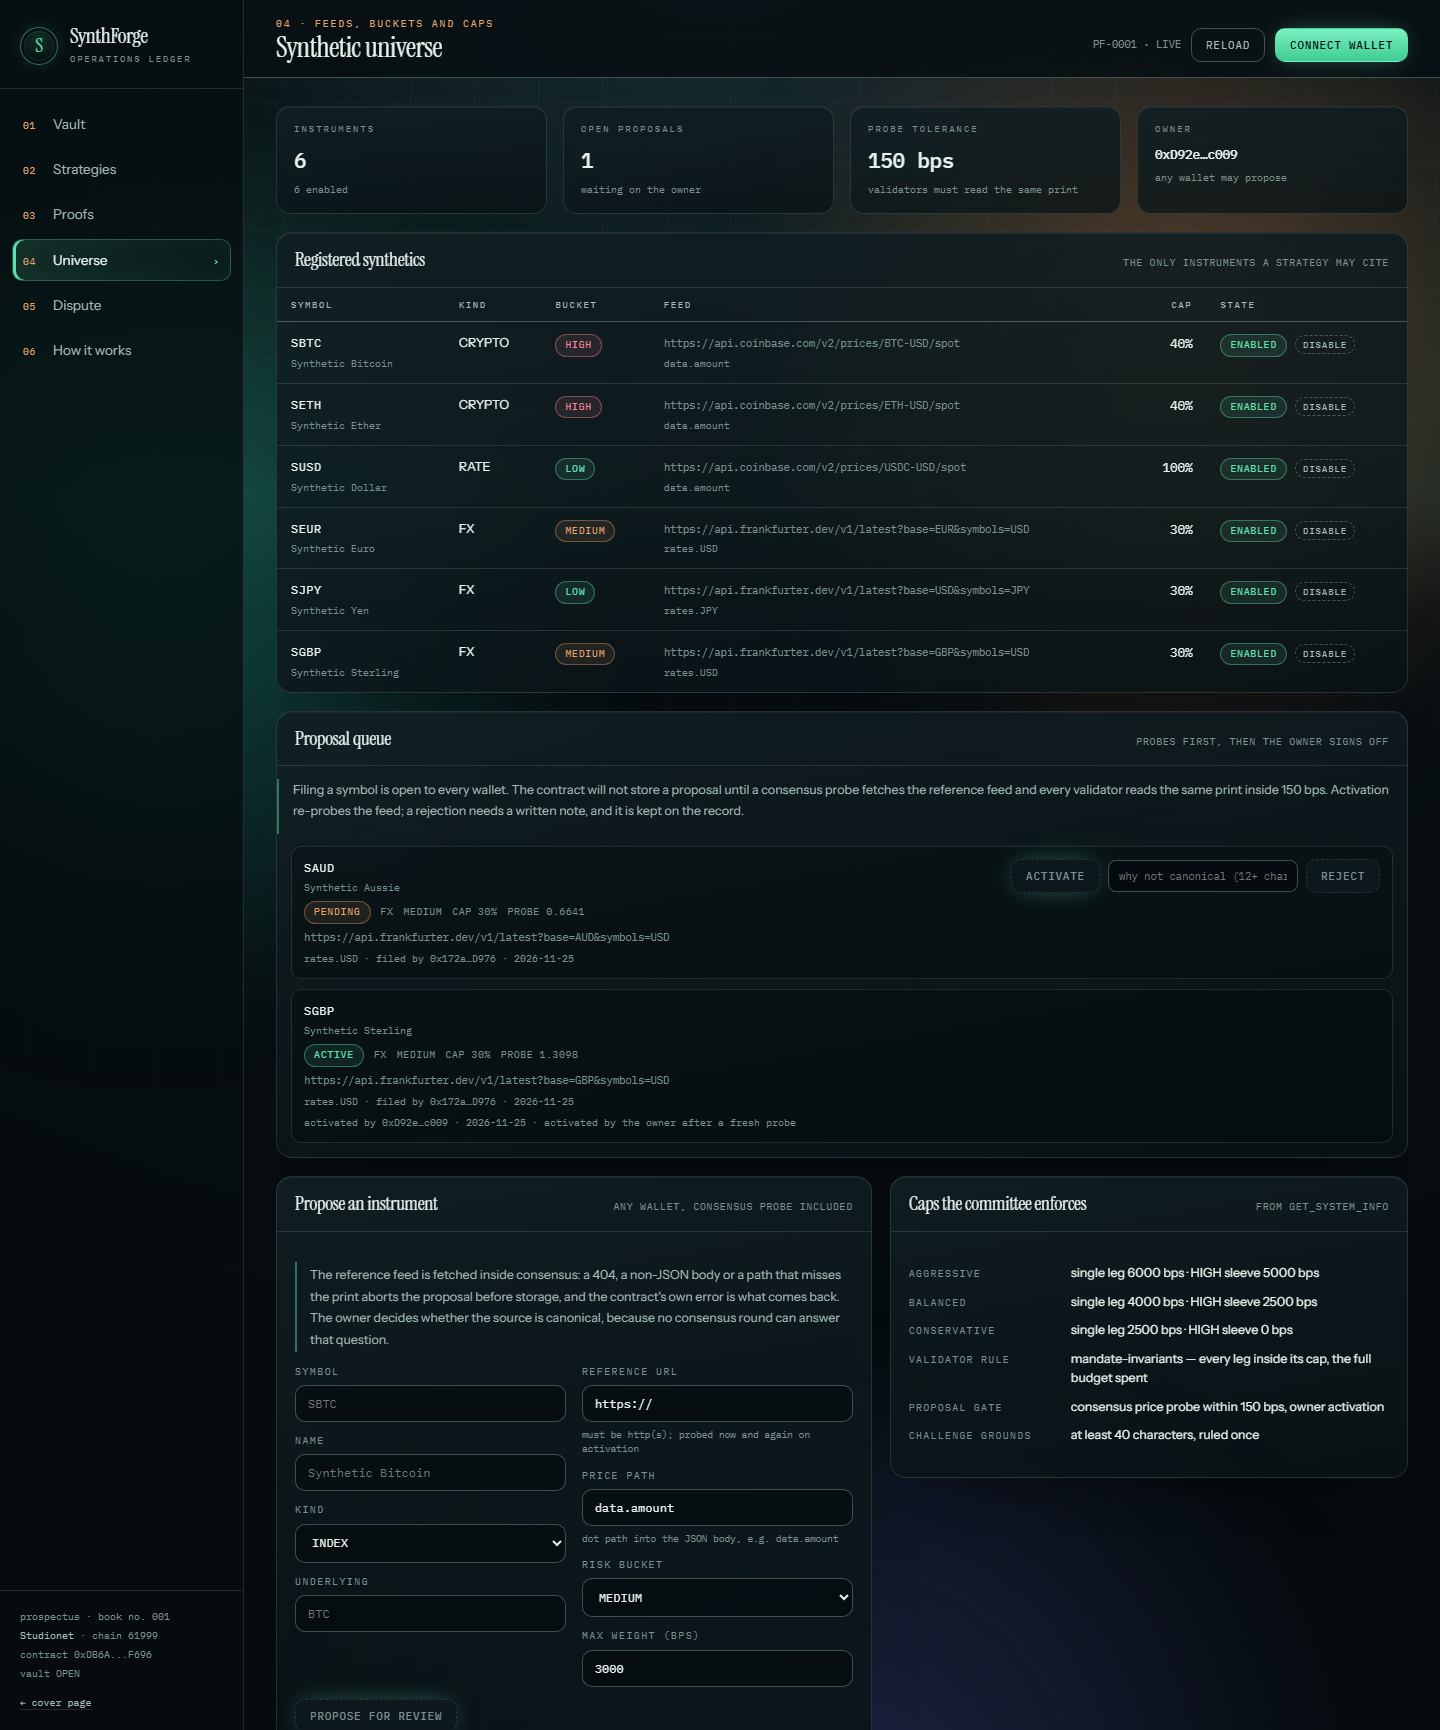
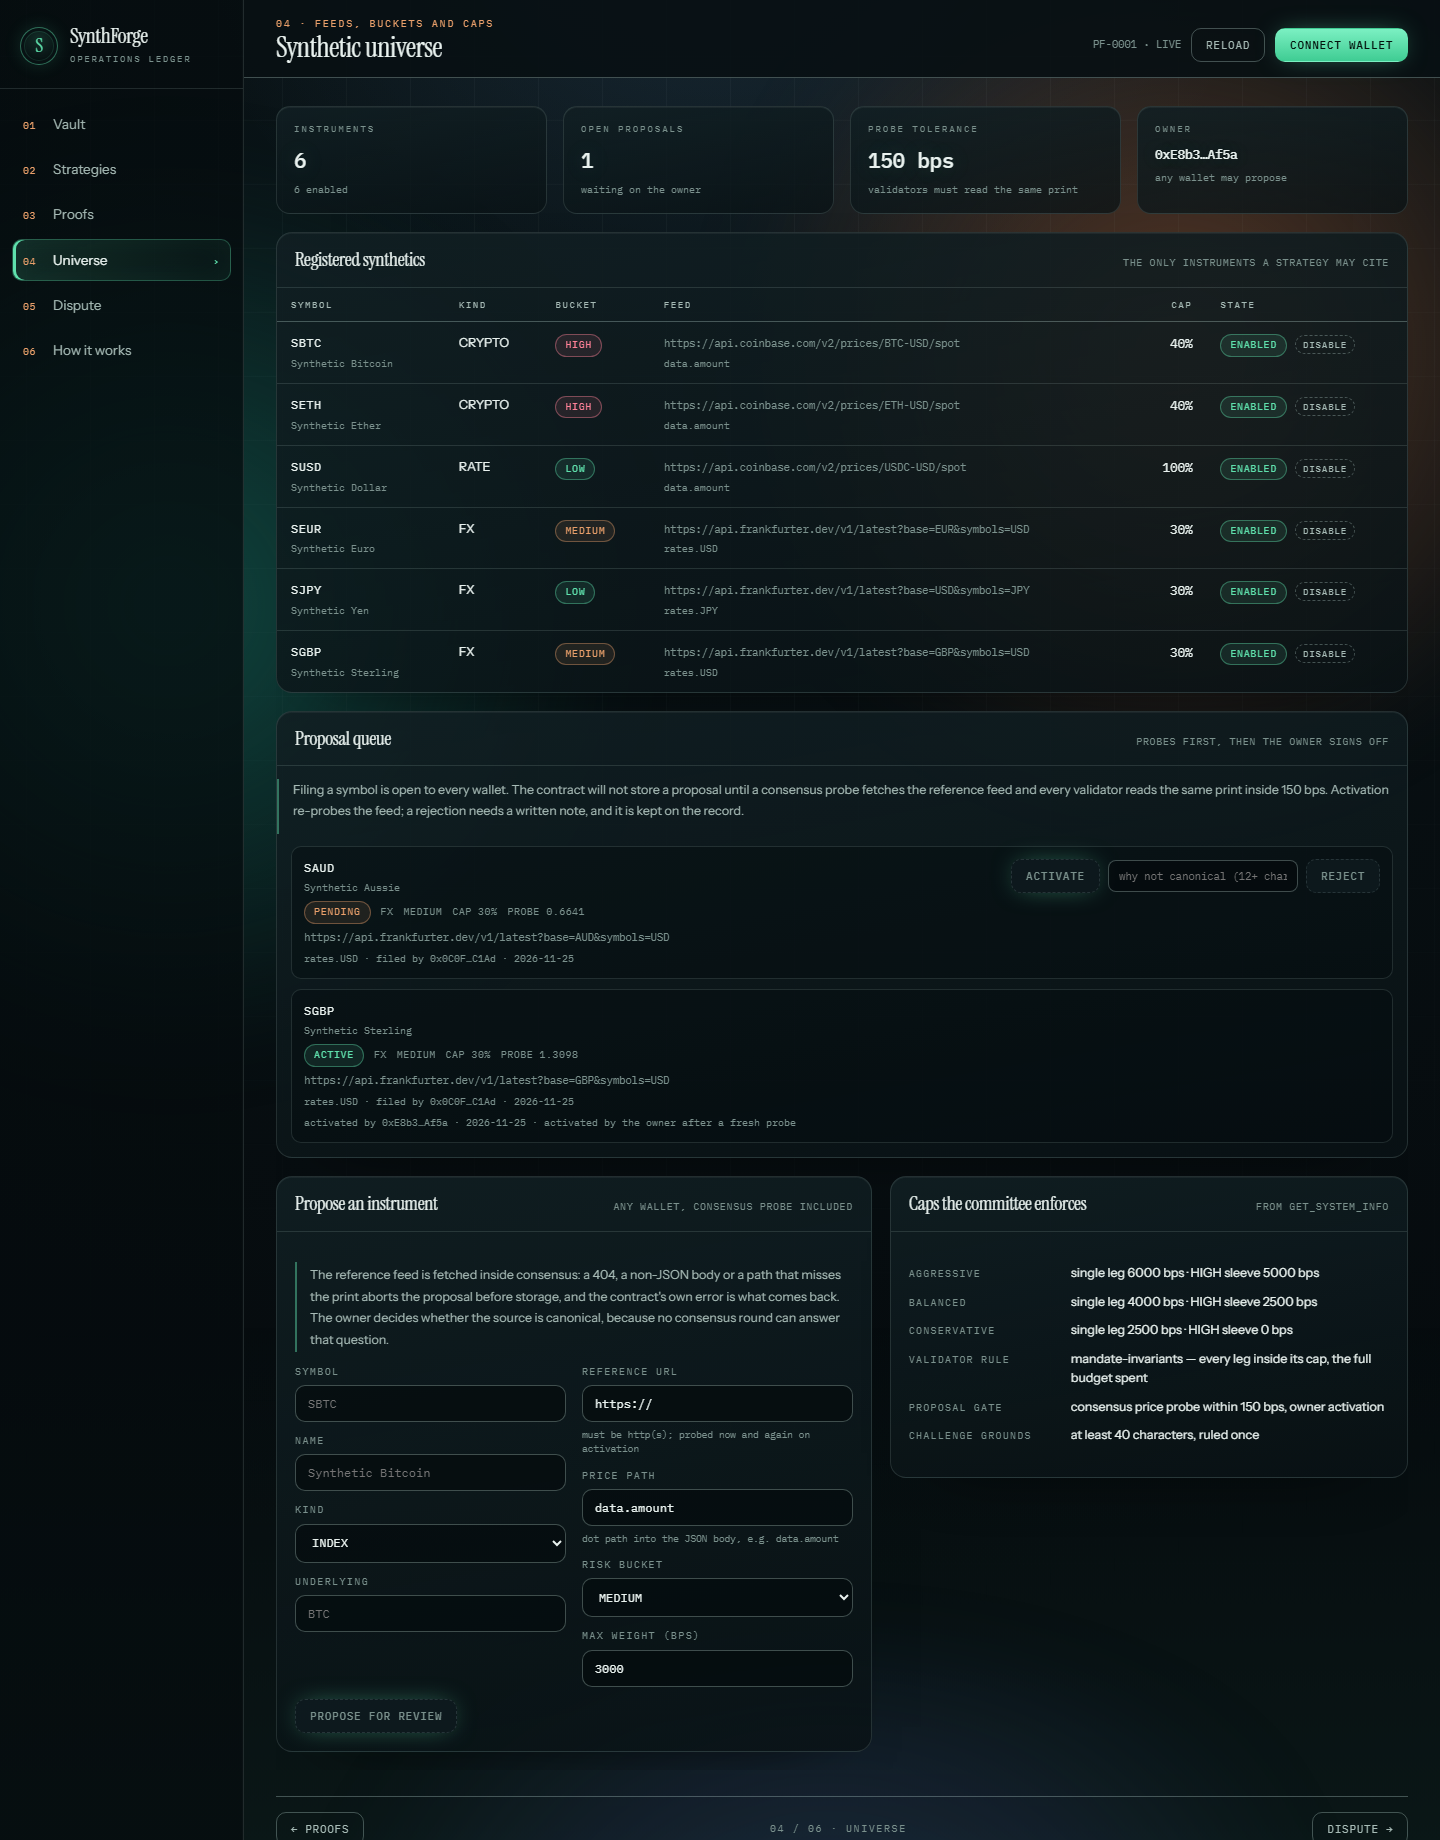
Redeploy from the project keystore and replay the whole loop on it
The vault now lives at 0x92c2C957E84a264c6f1B435a064c54D3D547DAdD, deployed by
tester1 (0xE8b3e800...0Af5a) from the keystore in ../wallet - no key was copied
into the CLI store, and the two temporary CLI imports used for the negative cases
were locked and removed afterwards.

Seeded and re-verified on that address: five owner registrations, PF-0001 with
1,000,000 GEN paper capital, ST-0001 accepted by the committee (RISK_ON, 68%,
five legs), one rebalance, a mark to 999,845.17 GEN, and a challenge ruled UPHOLD
(PR-0005). The registry path ran from tester2: SGBP filed, probed at 1.3098,
activated by the owner after a fresh probe; SAUD filed, rejected with a written
note, then filed again and left PENDING at 0.6641.

The refusals were exercised on the same address (owner gate, duplicate symbol,
dead feed, double activation, one-word rejection note); each is a GenVM error
that left the named state untouched, and the dead-feed probe finalized
Undetermined with nothing stored.

Docs follow the deployment: README head, lifecycle and adversarial tables,
deployment.json, and both screenshots recaptured from this address.

diff --git a/README.md b/README.md
@@ -9,11 +9,12 @@ challenge as an execution proof that anyone can re-verify.
 | | |
 | --- | --- |
 | Network | Studionet · chain `61999` |
-| Contract | [`0xDB6ABF2b2716959D79fFFD8dc2Be508b506cF696`](https://explorer-studio.genlayer.com/address/0xDB6ABF2b2716959D79fFFD8dc2Be508b506cF696) |
-| Deploy tx | [`0x66282a5a…74dea7`](https://explorer-studio.genlayer.com/tx/0x66282a5a0f368d01e079e2e1b731c7ac6d75629d878837f53af0152dcd74dea7) |
+| Contract | [`0x92c2C957E84a264c6f1B435a064c54D3D547DAdD`](https://explorer-studio.genlayer.com/address/0x92c2C957E84a264c6f1B435a064c54D3D547DAdD) |
+| Deploy tx | [`0x09e18606…e82dde`](https://explorer-studio.genlayer.com/tx/0x09e186067b88837f76159421c968fb9c1c6402a73fb968dfb113da95c5e82dde) |
+| Owner | [`0xE8b3e800…0Af5a`](https://explorer-studio.genlayer.com/address/0xE8b3e800d08727D25156a44cD1609F793bd0Af5a) · `tester1` keystore in `../wallet` |
 | Runner | `py-genlayer:1jb45aa8ynh2a9c9xn3b7qqh8sm5q93hwfp7jqmwsfhh8jpz09h6` |
-| Seeded state | 6 instruments · 1 portfolio (`PF-0001`, 1,000,000 GEN paper capital) · 5 proofs |
-| Registry | 2 symbols filed by a non-owner wallet: 1 activated, 1 still pending |
+| Seeded state | 6 instruments · 1 portfolio (`PF-0001`, 1,000,000 GEN paper capital) · 1 strategy · 5 proofs |
+| Registry | 2 symbols filed by the non-owner wallet `tester2`: 1 activated, 1 still pending |
 | Direct tests | 79 passing (`pytest tests/direct`) |
 
 That deployed contract was not read from a fixture: every row below ran against it on
@@ -23,24 +24,27 @@ Studionet, in this order.
 | --- | --- |
 | `register_asset` ×5 | `SBTC`, `SETH`, `SUSD`, `SEUR`, `SJPY` with their real feeds |
 | `open_portfolio` | `PF-0001` · BALANCED · 1,000,000 GEN paper capital |
-| `generate_strategy` | `ST-0001` accepted by the committee: `RISK_ON`, 5 legs, confidence 60% |
-| `execute_strategy` | 5 legs filled at attested prints, 5000 bps turnover |
-| `mark_to_market` | NAV 1,000,000 → 1,000,156.91 GEN |
+| `generate_strategy` | `ST-0001` accepted by the committee: `RISK_ON`, 5 legs, confidence 68% |
+| `execute_strategy` | 5 legs filled at the attested prints, one rebalance |
+| `mark_to_market` | NAV 1,000,000 → 999,845.17 GEN |
 | `challenge_strategy` | ruled `UPHOLD` - one adjudication, recorded on `PR-0005` |
-| `propose_asset` SGBP | filed by `0x172a…D976` (not the owner), stored `PENDING` at `1.3098` |
+| `propose_asset` SGBP | filed by `0x0C0F…C1Ad` (not the owner), stored `PENDING` at `1.3098` |
 | `activate_asset` SGBP | owner re-probed the feed and activated it; universe is now 6 |
 | `propose_asset` SAUD | filed by the same outside wallet, still `PENDING` at `0.6641` |
 
-The paths a symbol may *not* take were tested on the same address, and each one failed with
-the contract's own message, not a generic revert:
+The paths a symbol may *not* take were tried on the same address. Each one is a GenVM error,
+not a generic revert, and each left the state it names untouched; the exact
+`[EXPECTED]`/`[EXTERNAL]` strings are asserted in `tests/direct/test_registry_proposals.py`.
 
-| Attempt | Live response |
+| Attempt | What the live vault did |
 | --- | --- |
-| outside wallet calls `activate_asset` | `[EXPECTED] only the vault owner can activate a proposed asset` |
-| file `SBTC` again | `[EXPECTED] asset already registered: SBTC` |
-| file a symbol whose feed 404s | `[EXTERNAL] feed rejected the request (404)` - nothing stored |
-| activate an already-active symbol | `[EXPECTED] asset already registered: SGBP` |
-| reject with a one-word note | `[EXPECTED] rejection note must say why, at least 12 characters` |
+| outside wallet calls `activate_asset` | refused at the owner gate; SGBP stayed `PENDING`, nothing activated |
+| file `SBTC` again | refused; the universe stayed at 6 rows, no duplicate instrument |
+| file a symbol whose feed 404s | consensus aborted the probe; the transaction finalized `Undetermined` and nothing was stored |
+| activate an already-active symbol | refused; SGBP unchanged |
+| reject `SAUD` with a one-word note | refused on note length; the proposal stayed `PENDING` |
+| reject `SAUD` with a written note | accepted; `SAUD` became `REJECTED` with the reason kept on the record |
+| file the rejected `SAUD` again | accepted; back to `PENDING` at a fresh probe print, `0.6641` |
 
 ![The dashboard reading the live vault](docs/dashboard.png)
 
@@ -205,7 +209,7 @@ any wallet ─ propose_asset ──┤ consensus feed probe ──► PENDING
 register_asset (owner) ──┐
                  ├── open_portfolio ──► fund / redeem / transfer shares
                  │            │
-                 │            ├── generate_strategy ──► strategy PROPOSED
+                 │            ├── generate_strategy ──► strategy ACTIVE (a draft until executed)
                  │            │            │
                  │            │            ├── execute_strategy ──► positions + ACTIVE + proof
                  │            │            │            │
@@ -273,20 +277,20 @@ One row per state transition that moved money or changed the book — `PORTFOLIO
   "kind": "CHALLENGE",
   "portfolio_id": "PF-0001",
   "strategy_id": "ST-0001",
-  "allocation_digest": "sha256 of the reviewed weights",
-  "input_digest": "sha256 of the adjudication prompt",
-  "nav_before_atto": 1000081362696000000000000,
-  "nav_after_atto": 1000081362696000000000000,
[2 lines of base64/hex data omitted]
+  "nav_before_atto": 999845172844320335675641,
+  "nav_after_atto": 999845172844320335675641,
   "weight_l1_bps": 0,
-  "verdict": "REVOKE",
-  "verdict_detail": "REVOKE [MANDATE_DRIFT,MISSING_HEDGE]: the mandate requires a real long-vol sleeve…",
+  "verdict": "UPHOLD",
+  "verdict_detail": "UPHOLD: The book sums to 10000 bps, no single asset exceeds 4000 bps, and the HIGH sleeve (SBTC 1500 + SETH 1000) is exactly at the 2500 cap, not over it. The mandate pairs FX carry with BTC beta, so crypto exposure is intended. It requires no separate hedge. The challenge names no real breach.",
   "evidence": {
-    "violations": ["MANDATE_DRIFT", "MISSING_HEDGE"],
-    "allocation": { "SBTC": 1500, "SETH": 1000, "SUSD": 3500, "SEUR": 2000, "SJPY": 2000 },
-    "prompt_digest": "176256b3…"
+    "violations": [],
+    "allocation": { "SBTC": 1500, "SETH": 1000, "SEUR": 2500, "SJPY": 1000, "SUSD": 4000 },
+    "prompt_digest": "9b38452f…"
   },
   "executor": "0x0C0Fd005…",
-  "created_at": "2026-11-24T05:40:50Z"
+  "created_at": "2026-11-25T12:06:16Z"
 }
 ```
 
@@ -306,11 +310,13 @@ npm install && pip install -r requirements.txt
 # 1. run the unit suite (no network, direct mode)
 pytest
 
-# 2. deploy and seed the universe on Studionet
-node deploy/deployScript.ts
+# 2. deploy and seed the universe on Studionet, signing with the project wallet
+#    (keystores live in D:\Genlayer-project\weels\wallet, one <name>-keystore.json
+#     plus <name>.password each; the key is decrypted in memory and never copied)
+node deploy/deployScript.ts --wallet tester1
 
 # 3. drive one full lifecycle against the live contract
-node deploy/e2eScript.ts --address 0x3B60…3060
+node deploy/e2eScript.ts --address 0x92c2C957E84a264c6f1B435a064c54D3D547DAdD
 
 # 4. dashboard
 cd frontend && npm install && npm run dev
